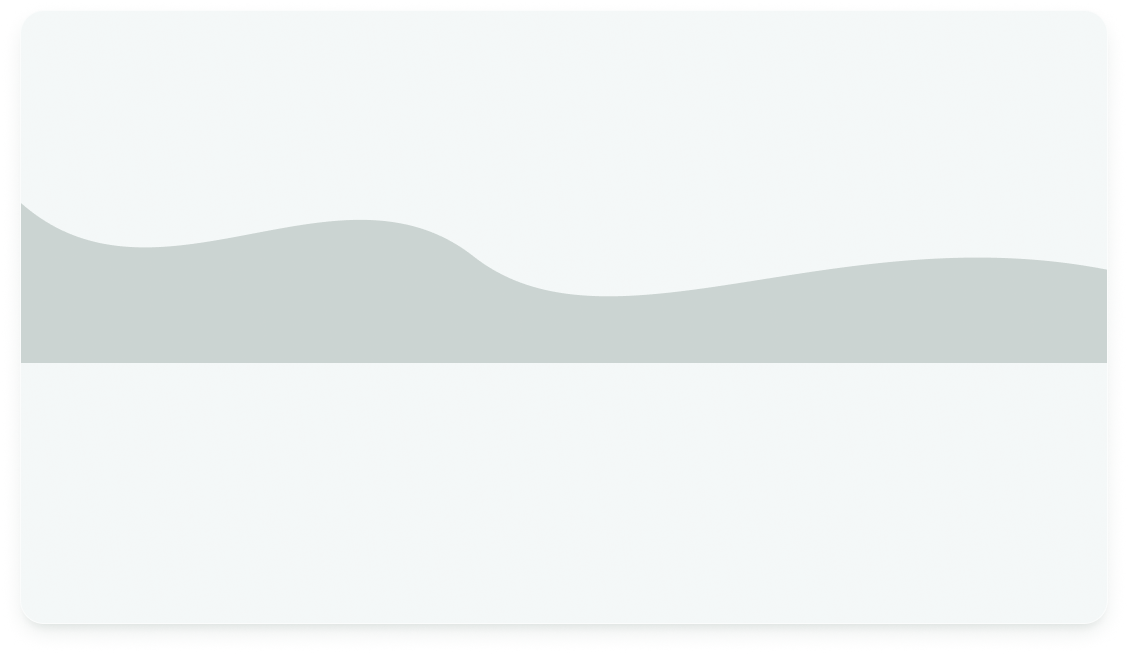
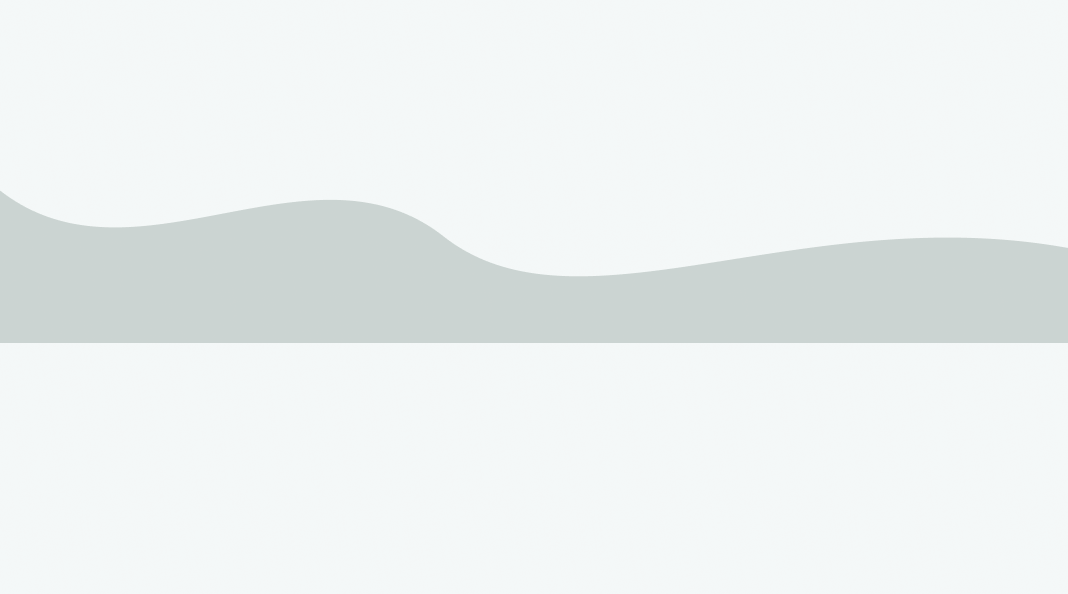
feat: menu navbar aktif mengikuti scroll dan perbaiki background paket

Changed region(s): [[0.0, 0.303, 1.0, 0.5758], [0.3399, 0.3333, 0.7107, 0.4848], [0.7107, 0.3939, 0.927, 0.4242]]

diff --git a/src/components/common/Navbar/TopBarV2.vue b/src/components/common/Navbar/TopBarV2.vue
@@ -2,19 +2,92 @@
 import { container } from '@/utils/container.js'
 import AppButton from '../button/AppButton.vue'
 import BrandLogo from '@/components/common/Layout/Landing-Page-Public/BrandLogo.vue'
-import { nextTick } from 'vue'
-import { useRouter } from 'vue-router'
+import { onMounted, onUnmounted, ref, watch } from 'vue'
+import { useRouter, useRoute } from 'vue-router'
 
 const router = useRouter()
+const route = useRoute()
+
+const menuAktif = ref('beranda')
+
+let sedangScrollOtomatis = false
+
+function cekPosisiScroll() {
+  if (route.path !== '/' || sedangScrollOtomatis) return
+
+  const batas = window.innerHeight * 0.4
+  const caraKerja = document.getElementById(
+    'cara-kerja-section',
+  )
+  const galeri = document.getElementById('galeri')
+
+  if (
+    galeri &&
+    galeri.getBoundingClientRect().top <= batas
+  ) {
+    menuAktif.value = 'galeri'
+  } else if (
+    caraKerja &&
+    caraKerja.getBoundingClientRect().top <= batas
+  ) {
+    menuAktif.value = 'cara-kerja-section'
+  } else {
+    menuAktif.value = 'beranda'
+  }
+}
+
+onMounted(() => {
+  window.addEventListener('scroll', cekPosisiScroll)
+  cekPosisiScroll()
+})
+
+onUnmounted(() => {
+  window.removeEventListener('scroll', cekPosisiScroll)
+})
+
+watch(
+  () => route.path,
+  () => {
+    menuAktif.value = 'beranda'
+    setTimeout(cekPosisiScroll, 200)
+  },
+)
+
+function kunciSebentar() {
+  sedangScrollOtomatis = true
+  setTimeout(() => {
+    sedangScrollOtomatis = false
+    cekPosisiScroll()
+  }, 1000)
+}
+
+function goToBeranda() {
+  menuAktif.value = 'beranda'
+  if (route.path === '/') {
+    kunciSebentar()
+    window.scrollTo({ top: 0, behavior: 'smooth' })
+    history.replaceState(null, '', '/')
+  } else {
+    router.push('/')
+  }
+}
 
 async function goToSection(id) {
   let el = document.getElementById(id)
+
   if (!el) {
     await router.push('/')
-    await nextTick()
-    el = document.getElementById(id)
+    for (let i = 0; i < 20 && !el; i++) {
+      await new Promise((resolve) =>
+        setTimeout(resolve, 50),
+      )
+      el = document.getElementById(id)
+    }
   }
+
   if (el) {
+    menuAktif.value = id
+    kunciSebentar()
     el.scrollIntoView({
       behavior: 'smooth',
       block: 'start',
@@ -100,7 +173,14 @@ async function goToSection(id) {
             <li>
               <RouterLink
                 to="/"
-                class="block rounded-[50rem] px-2 py-[0.35rem] text-[0.9rem] tracking-[0.3px] no-underline hover:bg-white/15 [&.router-link-exact-active]:bg-white [&.router-link-exact-active]:font-semibold [&.router-link-exact-active]:text-[#153A2B]"
+                class="block rounded-[50rem] px-2 py-[0.35rem] text-[0.9rem] tracking-[0.3px] no-underline hover:bg-white/15"
+                :class="
+                  route.path === '/' &&
+                  menuAktif === 'beranda'
+                    ? 'bg-white font-semibold text-[#153A2B]'
+                    : 'text-white'
+                "
+                @click.prevent="goToBeranda"
               >
                 Beranda
               </RouterLink>
@@ -109,7 +189,12 @@ async function goToSection(id) {
             <li>
               <a
                 href="/#cara-kerja-section"
-                class="block rounded-[50rem] px-2 py-[0.35rem] text-[0.9rem] tracking-[0.3px] text-white no-underline hover:bg-white/15"
+                class="block rounded-[50rem] px-2 py-[0.35rem] text-[0.9rem] tracking-[0.3px] no-underline hover:bg-white/15"
+                :class="
+                  menuAktif === 'cara-kerja-section'
+                    ? 'bg-white font-semibold text-[#153A2B]'
+                    : 'text-white'
+                "
                 @click.prevent="
                   goToSection('cara-kerja-section')
                 "
@@ -120,7 +205,12 @@ async function goToSection(id) {
             <li>
               <a
                 href="/#galeri"
-                class="block rounded-[50rem] px-2 py-[0.35rem] text-[0.9rem] tracking-[0.3px] text-white no-underline hover:bg-white/15"
+                class="block rounded-[50rem] px-2 py-[0.35rem] text-[0.9rem] tracking-[0.3px] no-underline hover:bg-white/15"
+                :class="
+                  menuAktif === 'galeri'
+                    ? 'bg-white font-semibold text-[#153A2B]'
+                    : 'text-white'
+                "
                 @click.prevent="goToSection('galeri')"
               >
                 Galeri

diff --git a/src/views/PaketView.vue b/src/views/PaketView.vue
@@ -24,14 +24,6 @@ import { container } from '@/utils/container.js'
     <section class="pt-10 pb-14 md:pt-14 md:pb-20">
       <div :class="container">
         <div class="mx-auto max-w-[42rem] text-center">
-          <span
-            class="mb-5 inline-flex items-center gap-2 rounded-full bg-white px-4 py-1.5 text-[0.78rem] font-medium text-[#153A2B] shadow-[0_2px_8px_rgba(21,58,43,0.08)]"
-          >
-            <span
-              class="h-2 w-2 rounded-full bg-[#FCC046]"
-            ></span>
-            Pilihan Paket &amp; Sesi Foto
-          </span>
           <h1
             class="mb-4 text-[clamp(2rem,5vw,3.25rem)] leading-[1.1] font-extrabold text-[#153A2B]"
           >
@@ -145,7 +137,7 @@ import { container } from '@/utils/container.js'
     <section class="pb-14 md:pb-20">
       <div :class="container">
         <div
-          class="overflow-hidden rounded-[1.75rem] border border-[#dce8e2] bg-white px-6 py-10 md:px-12 md:py-14"
+          class="overflow-hidden rounded-[1.75rem] border border-[#dce8e2] bg-[url(@/assets/img/bg-paket-wave.png)] bg-cover bg-center bg-no-repeat px-6 py-10 md:px-12 md:py-14"
         >
           <div
             class="grid grid-cols-1 items-center gap-10 min-[62rem]:grid-cols-2 min-[62rem]:gap-12"
@@ -207,36 +199,15 @@ import { container } from '@/utils/container.js'
               </div>
             </div>
 
-            <div
-              class="flex items-center justify-center gap-4"
-            >
+            <div class="flex items-center justify-center">
               <figure
-                class="w-[48%] max-w-[15rem] -rotate-3 rounded-2xl bg-white p-3 shadow-[0_10px_24px_rgba(21,58,43,0.15)]"
+                class="w-[70%] max-w-[18rem] -rotate-5 rounded-2xl bg-white border border-[#153A2B] p-3 shadow-[0_10px_24px_rgba(21,58,43,0.15)]"
               >
                 <img
-                  src="@/assets/img/img-public-page-V2/img-ilustration-party.png"
+                  src="@/assets/img/ilustration-animation-1.png"
                   alt="Contoh photostrip Midnight Party"
                   class="h-64 w-full rounded-xl object-cover"
                 />
-                <figcaption
-                  class="pt-3 text-center text-[0.6rem] font-bold tracking-wider text-[#153A2B] uppercase"
-                >
-                  Sleepy Ruben Nostalgia Strip • #082
-                </figcaption>
-              </figure>
-              <figure
-                class="mt-10 w-[48%] max-w-[15rem] rotate-3 rounded-2xl bg-white p-3 shadow-[0_10px_24px_rgba(21,58,43,0.15)]"
-              >
-                <img
-                  src="@/assets/img/img-public-page-V2/img-ilustration-partner.png"
-                  alt="Contoh photostrip Classic Monochrome"
-                  class="h-64 w-full rounded-xl object-cover"
-                />
-                <figcaption
-                  class="pt-3 text-center text-[0.6rem] font-bold tracking-wider text-[#153A2B] uppercase"
-                >
-                  Sleepy Ruben Kotabaru Kiosk • 2024
-                </figcaption>
               </figure>
             </div>
           </div>
